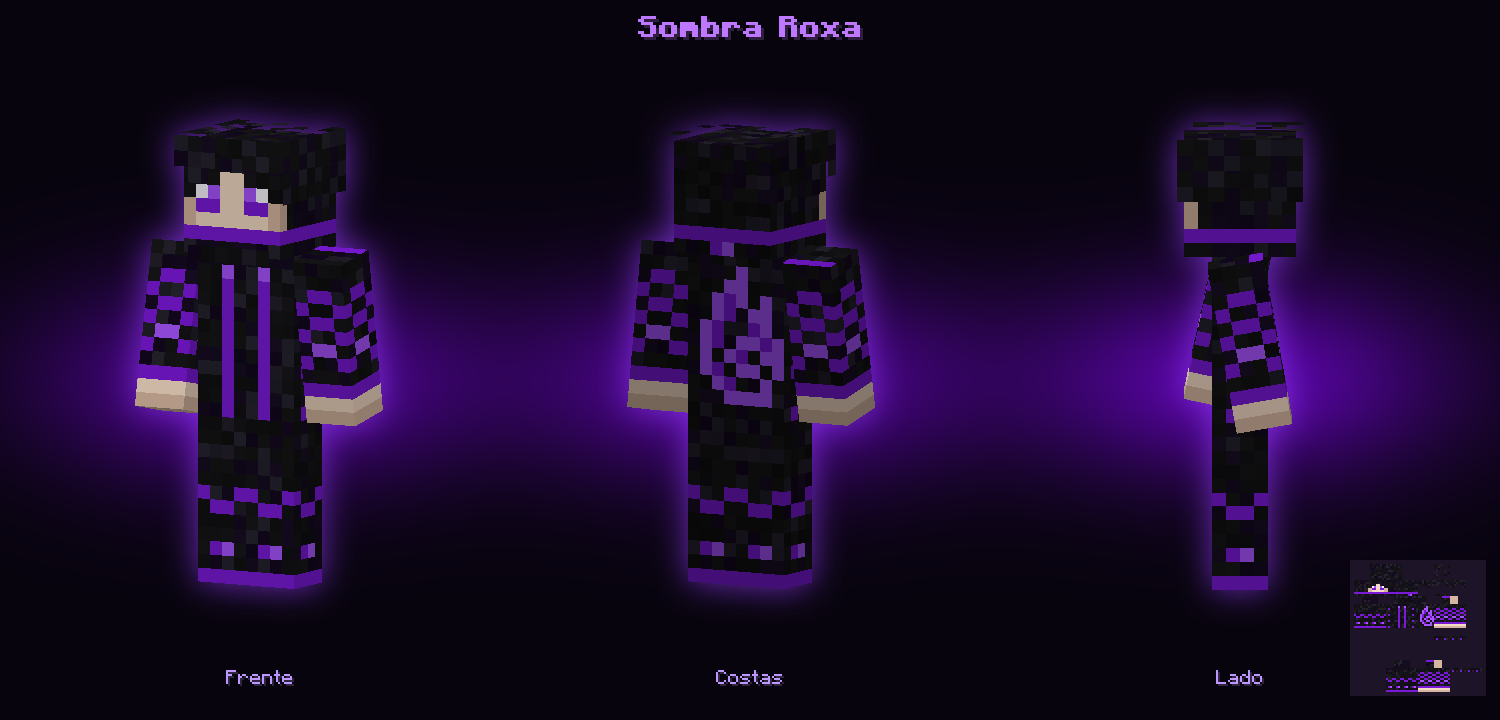
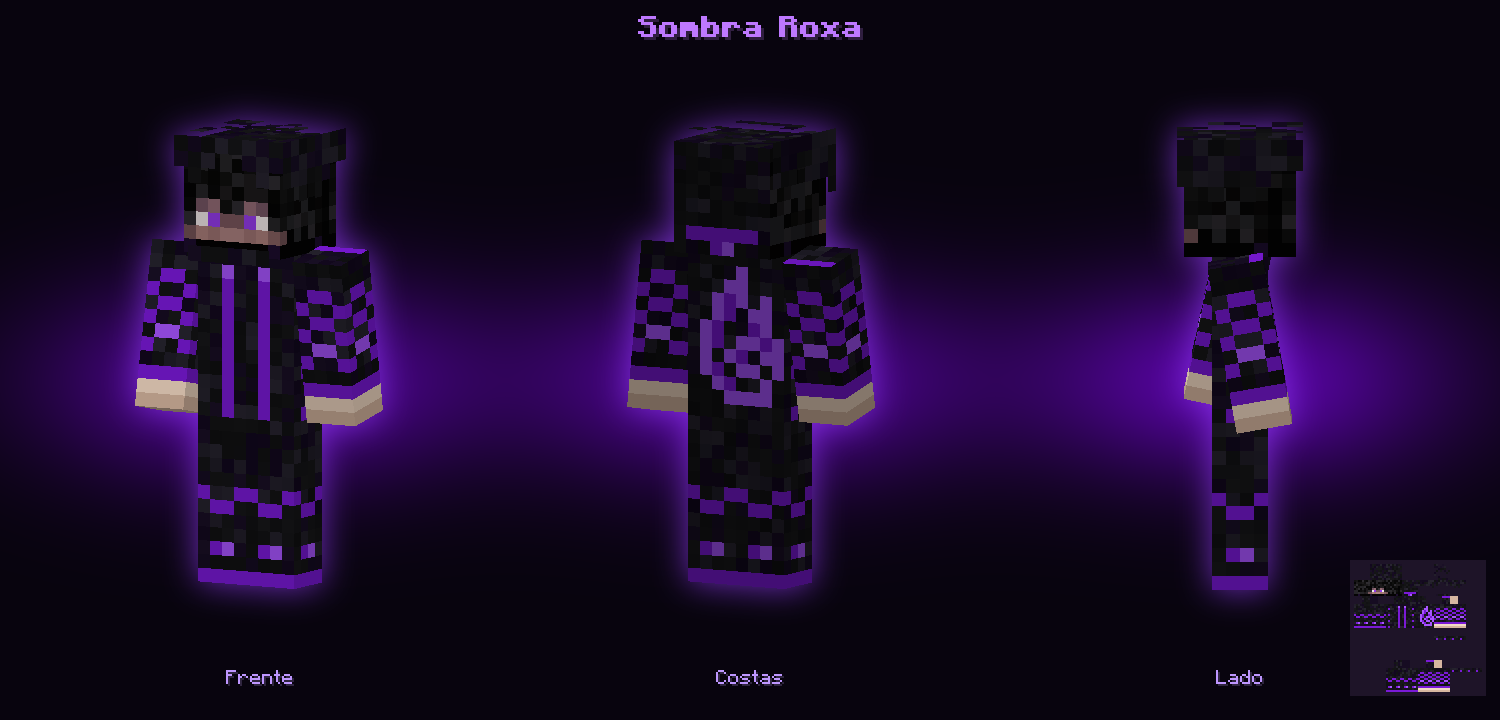
Skin Sombra Roxa: rosto refeito com as cores da referencia, pixel a pixel
Claude-Session: https://claude.ai/code/session_01Vzt37KYgrEvBbcVjWKzEed

diff --git a/tools/gerar_skin_sombra_roxa.py b/tools/gerar_skin_sombra_roxa.py
@@ -54,30 +54,45 @@ H = caixa(0, 0, 8, 8, 8)
 for f, (x, y, w, h) in H.items():
     preto(x, y, w, h)
 fx, fy = H["frente"][:2]
-# rosto: olhos roxos 2x2 com ponto branco, pele em volta, máscara a partir da linha 6
-ROSTO = ["hhhhhhhh",
-         "hhhhhhhh",
-         "hhhPPhhh",
-         "hwcPPcwh",
-         "snnPPnns",
-         "sPPPPPPs",
-         "mmmmmmmm",
-         "kkkkkkkk"]
-cores = {"P": PELE, "s": PELE_S, "c": NEON_C, "n": NEON, "w": BRANCO, "m": NEON}
+# rosto, com as cores tiradas pixel a pixel da referência:
+# cabelo até a linha 4 (franja entre os olhos), olhos com ponto branco por fora e roxo por
+# dentro, brilho roxo em volta, uma faixa de pele quente e a máscara preta embaixo
+CAB = [(4, 4, 4), (9, 8, 8), (13, 13, 12), (22, 21, 21), (29, 27, 28), (7, 7, 6), (16, 16, 15), (38, 37, 40), (46, 44, 48)]
+ROSTO = [
+    "hhhhhhhh",
+    "hhhhhhhh",
+    "hhhhhhhh",
+    "hhhHhhHh",
+    "hGghhgGh",
+    "hWOssOWh",
+    "ABCDDCBE",
+    "MkkkkkkM",
+]
+CORES = {
+    "G": (118, 86, 100), "g": (148, 108, 118),
+    "W": (242, 232, 233),
+    "O": (150, 60, 235),
+    "s": (122, 86, 92),
+    "A": (117, 84, 87), "B": (171, 126, 122), "C": (157, 115, 114), "D": (172, 129, 128), "E": (134, 97, 97),
+    "M": (29, 14, 46), "k": (4, 3, 3), "H": (29, 27, 28),
+}
 for j, linha in enumerate(ROSTO):
     for i, ch in enumerate(linha):
-        if ch in cores: set_(fx + i, fy + j, cores[ch])
-# laterais: pele perto da frente na altura dos olhos, máscara com linha roxa
+        set_(fx + i, fy + j, random.choice(CAB) if ch == "h" else CORES[ch])
+# laterais: cabelo, pele perto do rosto na altura da bochecha, máscara embaixo
 for lado in ("dir", "esq"):
     x, y, w, h = H[lado]
     perto = x + w - 1 if lado == "dir" else x
-    set_(perto, y + 4, PELE_S); set_(perto, y + 5, PELE_S)
     for i in range(w):
-        set_(x + i, y + 6, NEON)
+        for j in range(8):
+            set_(x + i, y + j, random.choice(CAB))
+        set_(x + i, y + 7, (4, 3, 3))
+    set_(perto, y + 6, (117, 84, 87))
+    set_(x + (2 if lado == "dir" else 5), y + 7, (29, 14, 46))
 # nuca: faixa roxa da máscara amarrada atrás
 x, y, w, h = H["costas"]
-for i in range(w):
-    set_(x + i, y + 6, NEON)
+for i in range(1, 7):
+    set_(x + i, y + 6, NEON)                                        # faixa roxa amarrada na nuca
 set_(x + 3, y + 7, NEON); set_(x + 4, y + 7, NEON_C)               # nó da faixa
 
 # camada de cima da cabeça: mechas do cabelo saindo da frente e dos lados
